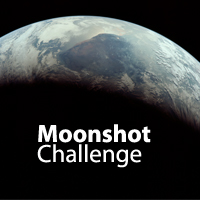
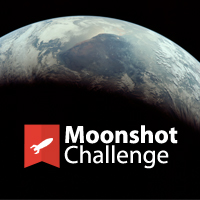
facebook thumbnail and for sharing

Changed region(s): [[0.12, 0.6, 0.9, 0.87]]

diff --git a/public/index.html b/public/index.html
@@ -8,7 +8,8 @@
     <meta name="author" content="Andrei" >
     <meta itemprop="name" content="MoonshotChallenge">
 	 <meta itemprop="description" content="Be a rocketscientist in a few months! Learn  the science behind the moon landing in an interactive way!">
-	 <meta itemprop="image" content="http://www.moonshotchallenge.com/images/fb-photo.jpg">
+	<meta itemprop="image" content="http://www.moonshotchallenge.com/images/fb-photo.jpg">
+	<link rel="image_src" href="/images/fb-photo.jpg" />
 	<link rel="icon" href="images/favicon.ico">
 
     <!-- Le styles -->
